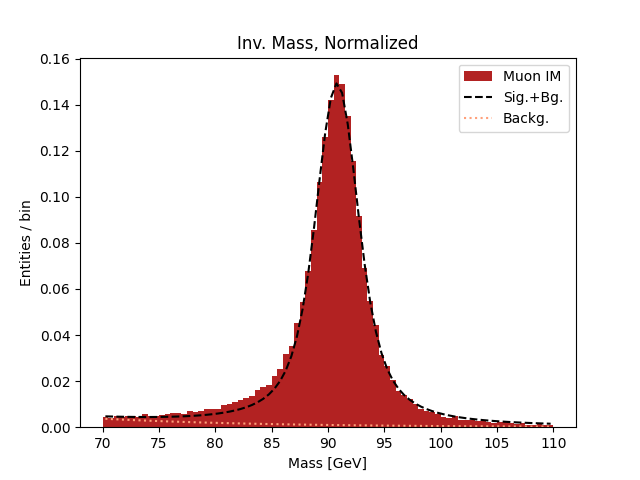
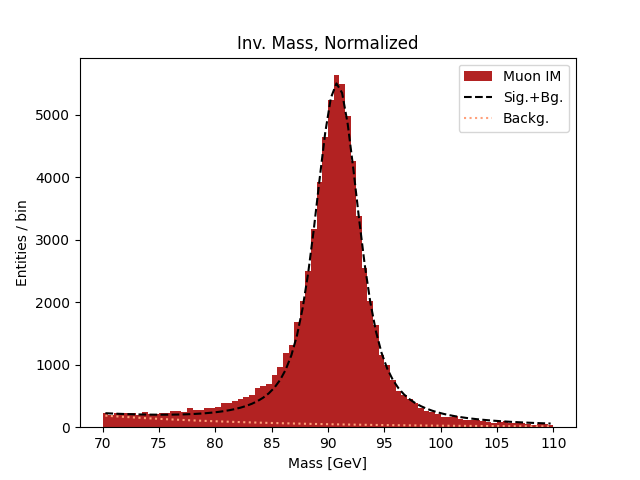
Properly Y-Scaled Histogram.

diff --git a/plots/plot.py b/plots/plot.py
@@ -1,41 +1,52 @@
-print(100*"*")
-# Importing math-related libraries.
-import pandas as pd
-import matplotlib.pyplot as plt
-import numpy as np
-from scipy.special import voigt_profile as f_voigt
 from scipy.optimize import curve_fit
+from scipy.special import voigt_profile as f_voigt
+import numpy as np
+import matplotlib.pyplot as plt
+import pandas as pd
+print(100 * "*")
 
 
-## Invariant mass dataframe. 
+# Invariant mass dataframe.
 # Only keeping values within specific isolation boundaries.
 muon_df = pd.read_csv(open("data\\mini_muons.csv"), index_col=0)
 imass_df = pd.read_csv(open("data\\invariant_mass.csv"), index_col=0)
-iso_bounds = (0, 1)
-imass_df[["Iso 1","Iso 2"]] = muon_df[["Iso 1","Iso 2"]]
+iso_bounds = (0, 5)
+imass_df[["Iso 1", "Iso 2"]] = muon_df[["Iso 1", "Iso 2"]]
 imass_df = pd.merge(imass_df[(imass_df["Iso 1"] > iso_bounds[0])
                              & (imass_df["Iso 1"] < iso_bounds[1])],
                     imass_df[(imass_df["Iso 2"] > iso_bounds[0])
                              & (imass_df["Iso 2"] < iso_bounds[1])],
                     how='inner',
                     on=list(imass_df.columns))
-print("Inv. Mass Dataframe with bounded Isolation values",iso_bounds)
+
+print("Inv. Mass Dataframe with bounded Isolation values", iso_bounds)
 print("")
 print(imass_df)
-print(100*"-")
+print(100 * "-")
 
 
-## Histogram generation.
+### Histogram generation.
 # Defining histogram parameters.
 bins = 80
 rng = (70, 110)
-# Plotting and design.
+## Plotting and design.
+# Retrieving y-ticks from non-normalized histogram. 
 imass_hist = plt.hist(imass_df["Invariant Mass"],
                       bins=bins,
                       range=rng,
-                      density=True, # Normalizes histogram
                       color="firebrick",
                       label="Muon IM")
+ytck_nonn = [int(y) for y in plt.yticks()[0]] #Integer labels of original y-ticks
+plt.clf()
+
+# Recreating histogram, yet now normalized.
+imass_hist = plt.hist(imass_df["Invariant Mass"],
+                      bins=bins,
+                      range=rng,
+                      density=True,  # Normalization Parameter.
+                      color="firebrick",
+                      label="Muon IM")
+plt.yticks(np.linspace(0, plt.yticks()[0][-1], num=len(ytck_nonn)),ytck_nonn)
 plt.title("Inv. Mass, Normalized")
 plt.xlabel("Mass [GeV]")
 plt.ylabel("Entities / bin")
@@ -45,49 +56,50 @@ plt.ylabel("Entities / bin")
 # x_vals represents the middle points of each histogram bin.
 x_vals = []
 for i in range(len(imass_hist[1]) - 1):
-    avg = (imass_hist[1][i] + imass_hist[1][i + 1])/2
+    avg = (imass_hist[1][i] + imass_hist[1][i + 1]) / 2
     x_vals.append(avg)
-# Every y value is simple the size of the size/height of the histogram bin. 
+# Every y value is simple the size of the size/height of the histogram bin.
 y_vals = imass_hist[0]
 
 
-## NORMALIZED functions for curve-fitting.
+# NORMALIZED functions for curve-fitting.
 # Falling function.
 def f_fall(x, xi_fall, tau):
-    E = lambda x, xi_fall, tau: np.exp(-(x - xi_fall)/tau)
-    return (E(x, xi_fall, tau) 
+    def E(x, xi_fall, tau): return np.exp(-(x - xi_fall) / tau)
+    return (E(x, xi_fall, tau)
             / np.trapz(E(x_vals, xi_fall, tau), x_vals))
-    
+
 # Parent function.
+
+
 def f_fit(x, s, xi_voigt=0, xi_fall=0,
           alpha=None, gamma=None, tau=None):
-    sigma = alpha / np.sqrt(2*np.log(2))
-    return ((1 - s)*f_fall(x, xi_fall, tau) 
-            + s*f_voigt(x - xi_voigt, sigma, gamma))
+    sigma = alpha / np.sqrt(2 * np.log(2))
+    return ((1 - s) * f_fall(x, xi_fall, tau)
+            + s * f_voigt(x - xi_voigt, sigma, gamma))
 
 
-
-## Bounding variables to be non-negative.
-    # s should represent a ratio between V and E. 
-    # alpha should be siginificantly large. 
-para_bounds = np.vstack((np.zeros(6),np.inf*np.ones(6)))
-para_bounds[:, 0] = (.25, 1) # s upper-bound
-#param_bounds[0,2] =  # alpha lower-bound
+# Bounding variables to be non-negative.
+    # s should represent a ratio between V and E.
+    # alpha should be siginificantly large.
+para_bounds = np.vstack((np.zeros(6), np.inf * np.ones(6)))
+para_bounds[:, 0] = (.25, 1)  # s upper-bound
+# param_bounds[0,2] =  # alpha lower-bound
 
 print("Parameter Boundaries:")
 print("[s, xi_fall, xi_voight,")
 print("tau,  alpha, gamma]")
 print("")
 print(para_bounds)
-print(100*"-")
+print(100 * "-")
 
 # curve_fit() to calculate parameters.
-[para, para_var] = curve_fit(f_fit,                            
-                  x_vals,                          
-                  y_vals,                             
-                  p0=[.7, 91, 50, 2, 1, 1],
-                  bounds=para_bounds,
-                  maxfev=10000)                 
+[para, para_var] = curve_fit(f_fit,
+                             x_vals,
+                             y_vals,
+                             p0=[.7, 91, 50, 2, 1, 1],
+                             bounds=para_bounds,
+                             maxfev=10000)
 
 print("Calculated Parameters:")
 print("[s, tau,  alpha, gamma")
@@ -98,21 +110,20 @@ print("")
 print("")
 print("Paramater Variance Matrix:")
 print(para_var)
-print(100*"-")
+print(100 * "-")
 
-## Plotting fitted function to histogram.
+# Plotting fitted function to histogram.
 # Alterting list of x values to be a numpy array for plotting.
 x_vals = np.asarray(x_vals)
-# Plotting the function given the x values and parameters. 
-plt.plot(x_vals, f_fit(x_vals,*para),
-         "black", linestyle='dashed',label="Sig.+Bg.")
-plt.plot(x_vals, (1-para[0])*f_fall(x_vals, para[2], para[5]),
-         "lightsalmon", linestyle='dotted',label="Backg.")
+# Plotting the function given the x values and parameters.
+plt.plot(x_vals, f_fit(x_vals, *para),
+         "black", linestyle='dashed', label="Sig.+Bg.")
+plt.plot(x_vals, (1 - para[0]) * f_fall(x_vals, para[2], para[5]),
+         "lightsalmon", linestyle='dotted', label="Backg.")
 plt.legend()
-# Saving histogram. 
+# Saving histogram.
 plt.savefig("plots\\muon_hist.png")
 
-
 print("Signal Fraction:", para[0])
-print("SF Uncertainty:", np.sqrt(para_var[0,0]))
-print(100*"-")
+print("SF Uncertainty:", np.sqrt(para_var[0, 0]))
+print(100 * "-")
